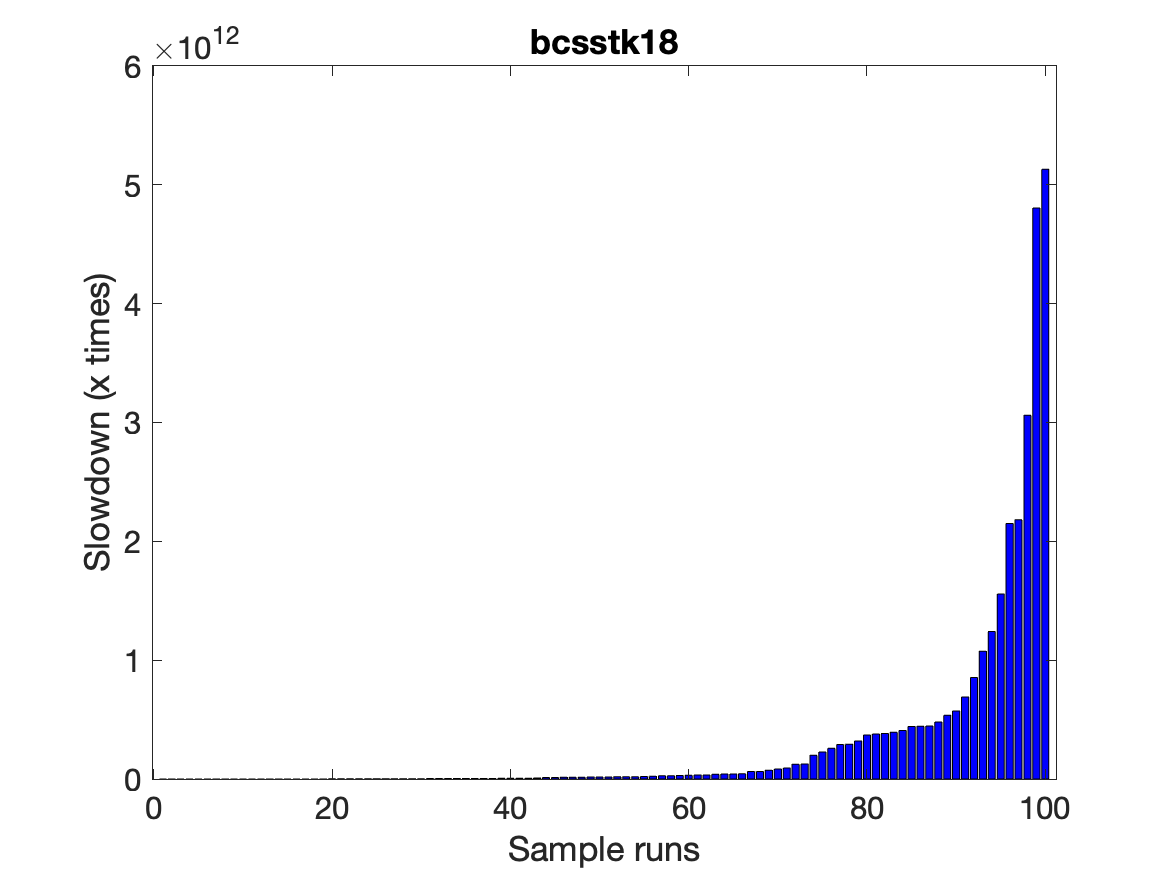
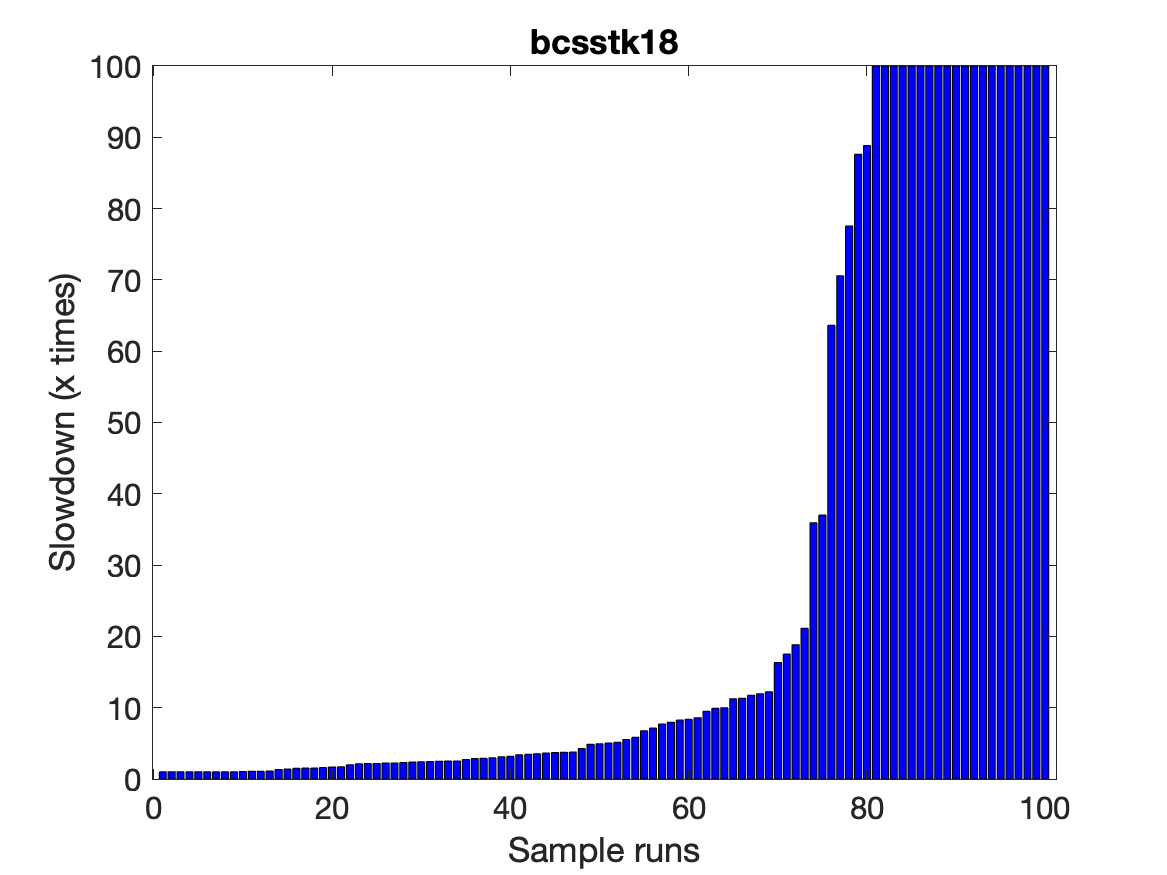
Updated overhead graphs

diff --git a/Step3_solving.m b/Step3_solving.m
@@ -65,22 +65,22 @@ else % file already exists, then just load the file
     M = length(E);
 end
 
-temp_error = ['./matrices/', matrixname, '_temp_error.mat'];
-if exist(temp_error, 'file') < 1
-    error_2 = randi(N, [2, M]);
-    error_5 = randi(N, [5, M]);
-    % E = randi(N, [num_elements, M]);
-    save(temp_error, 'error_2', 'error_5');
-else
-    load(temp_error, 'error_2', 'error_5');
-end 
+% temp_error = ['./matrices/', matrixname, '_temp_error.mat'];
+% if exist(temp_error, 'file') < 1
+%     error_2 = randi(N, [2, M]);
+%     error_5 = randi(N, [5, M]);
+%     % E = randi(N, [num_elements, M]);
+%     save(temp_error, 'error_2', 'error_5');
+% else
+%     load(temp_error, 'error_2', 'error_5');
+% end 
 
 %% start pcg 
 % for i = injections
     bitflip_iter = 110;
     % bitflip_pos = error_2;
-    result_filename = ['./data/Step3_', matrixname, '_iter=', num2str(bitflip_iter), 'all', '.dat'];
-    pos_filename = ['./data/Step3_', matrixname, '_iter=', num2str(bitflip_iter), 'all', '.dat'];
+    result_filename = ['./data/Step3_', matrixname, '_iter=', num2str(bitflip_iter), '.dat'];
+    % pos_filename = ['./data/Step3_', matrixname, '_iter=', num2str(bitflip_iter), '.dat'];
     for m = 1:M
 
         % Inject errors from Experiment 1 to M, each at a random location 
@@ -102,7 +102,7 @@ end
     
         % p
     
-        result = [N,flag,bitflip_iter,bitflip_pos,diff_v,A_row_2norm(bitflip_pos),noerror_converge,converge, p(bitflip_pos),grad_abs(bitflip_pos), grad_rel(bitflip_pos)];
+        result = [N,flag,bitflip_iter,bitflip_pos,diff_v,A_row_2norm(bitflip_pos),noerror_converge,converge, max(p),grad_abs(bitflip_pos), grad_rel(bitflip_pos)];
         % result = [N,flag,bitflip_iter,diff_v,noerror_converge,converge]; % for multiple bitflip positions
         % pos_info = [A_row_2norm(bitflip_pos), p(bitflip_pos), grad_abs(bitflip_pos), grad_rel(bitflip_pos)];
         dlmwrite(result_filename, result, '-append');

diff --git a/Step6_impact.m b/Step6_impact.m
@@ -19,13 +19,13 @@ for m = 1:num_matrices
     disp(matrixname);
     
     %% load experimental data
-    result_filename = ['./data/Step3_', matrixname, '_iter=', num2str(bitflip_iter), 'error_no = 5', '.dat'];
+    result_filename = ['./data/Step3_', matrixname, '_iter=', num2str(bitflip_iter), '.dat'];
     result = dlmread(result_filename);
-    % noerror_converges = result(:, 7);
-    % converges = result(:, 8);
+    noerror_converges = result(:, 7);
+    converges = result(:, 8);
     % for multiple errors
-    noerror_converges = result(:, 5);
-    converges = result(:, 6);
+    % noerror_converges = result(:, 5);
+    % converges = result(:, 6);
     converge_ratios = converges./noerror_converges;
     
     %% plot figure
@@ -37,7 +37,7 @@ for m = 1:num_matrices
     ylabel('Slowdown (x times)');
     set(gca,'FontSize',15);
     
-    figure_filename = ['./figures/', comments, '_', matrixname, '_bitflip_iter=', num2str(bitflip_iter), 'error5'];
+    figure_filename = ['./figures/', comments, '_', matrixname, '_bitflip_iter=', num2str(bitflip_iter)];
     print(figure_filename, '-dpng');
     %close all;
 end 

diff --git a/Step6_overhead.m b/Step6_overhead.m
@@ -11,7 +11,7 @@ close all;
 matrices = {'bcsstk18'};
 num_matrices = length(matrices);
 
-bitflip_iter = 110;
+bitflip_iter = 2;
 protects = [0:0.01:1];
 num_protects = length(protects);
 
@@ -25,7 +25,7 @@ for m = 1:num_matrices
     A = Problem.A;
     
     %% load experimental data
-    result_filename = ['./data/Step3_', matrixname, '_iter=', num2str(bitflip_iter),'all', '.dat'];
+    result_filename = ['./data/Step3_', matrixname, '_iter=', num2str(bitflip_iter), '.dat'];
     result = dlmread(result_filename);
     noerror_converges = result(:, 7);
     converges = result(:, 8);
